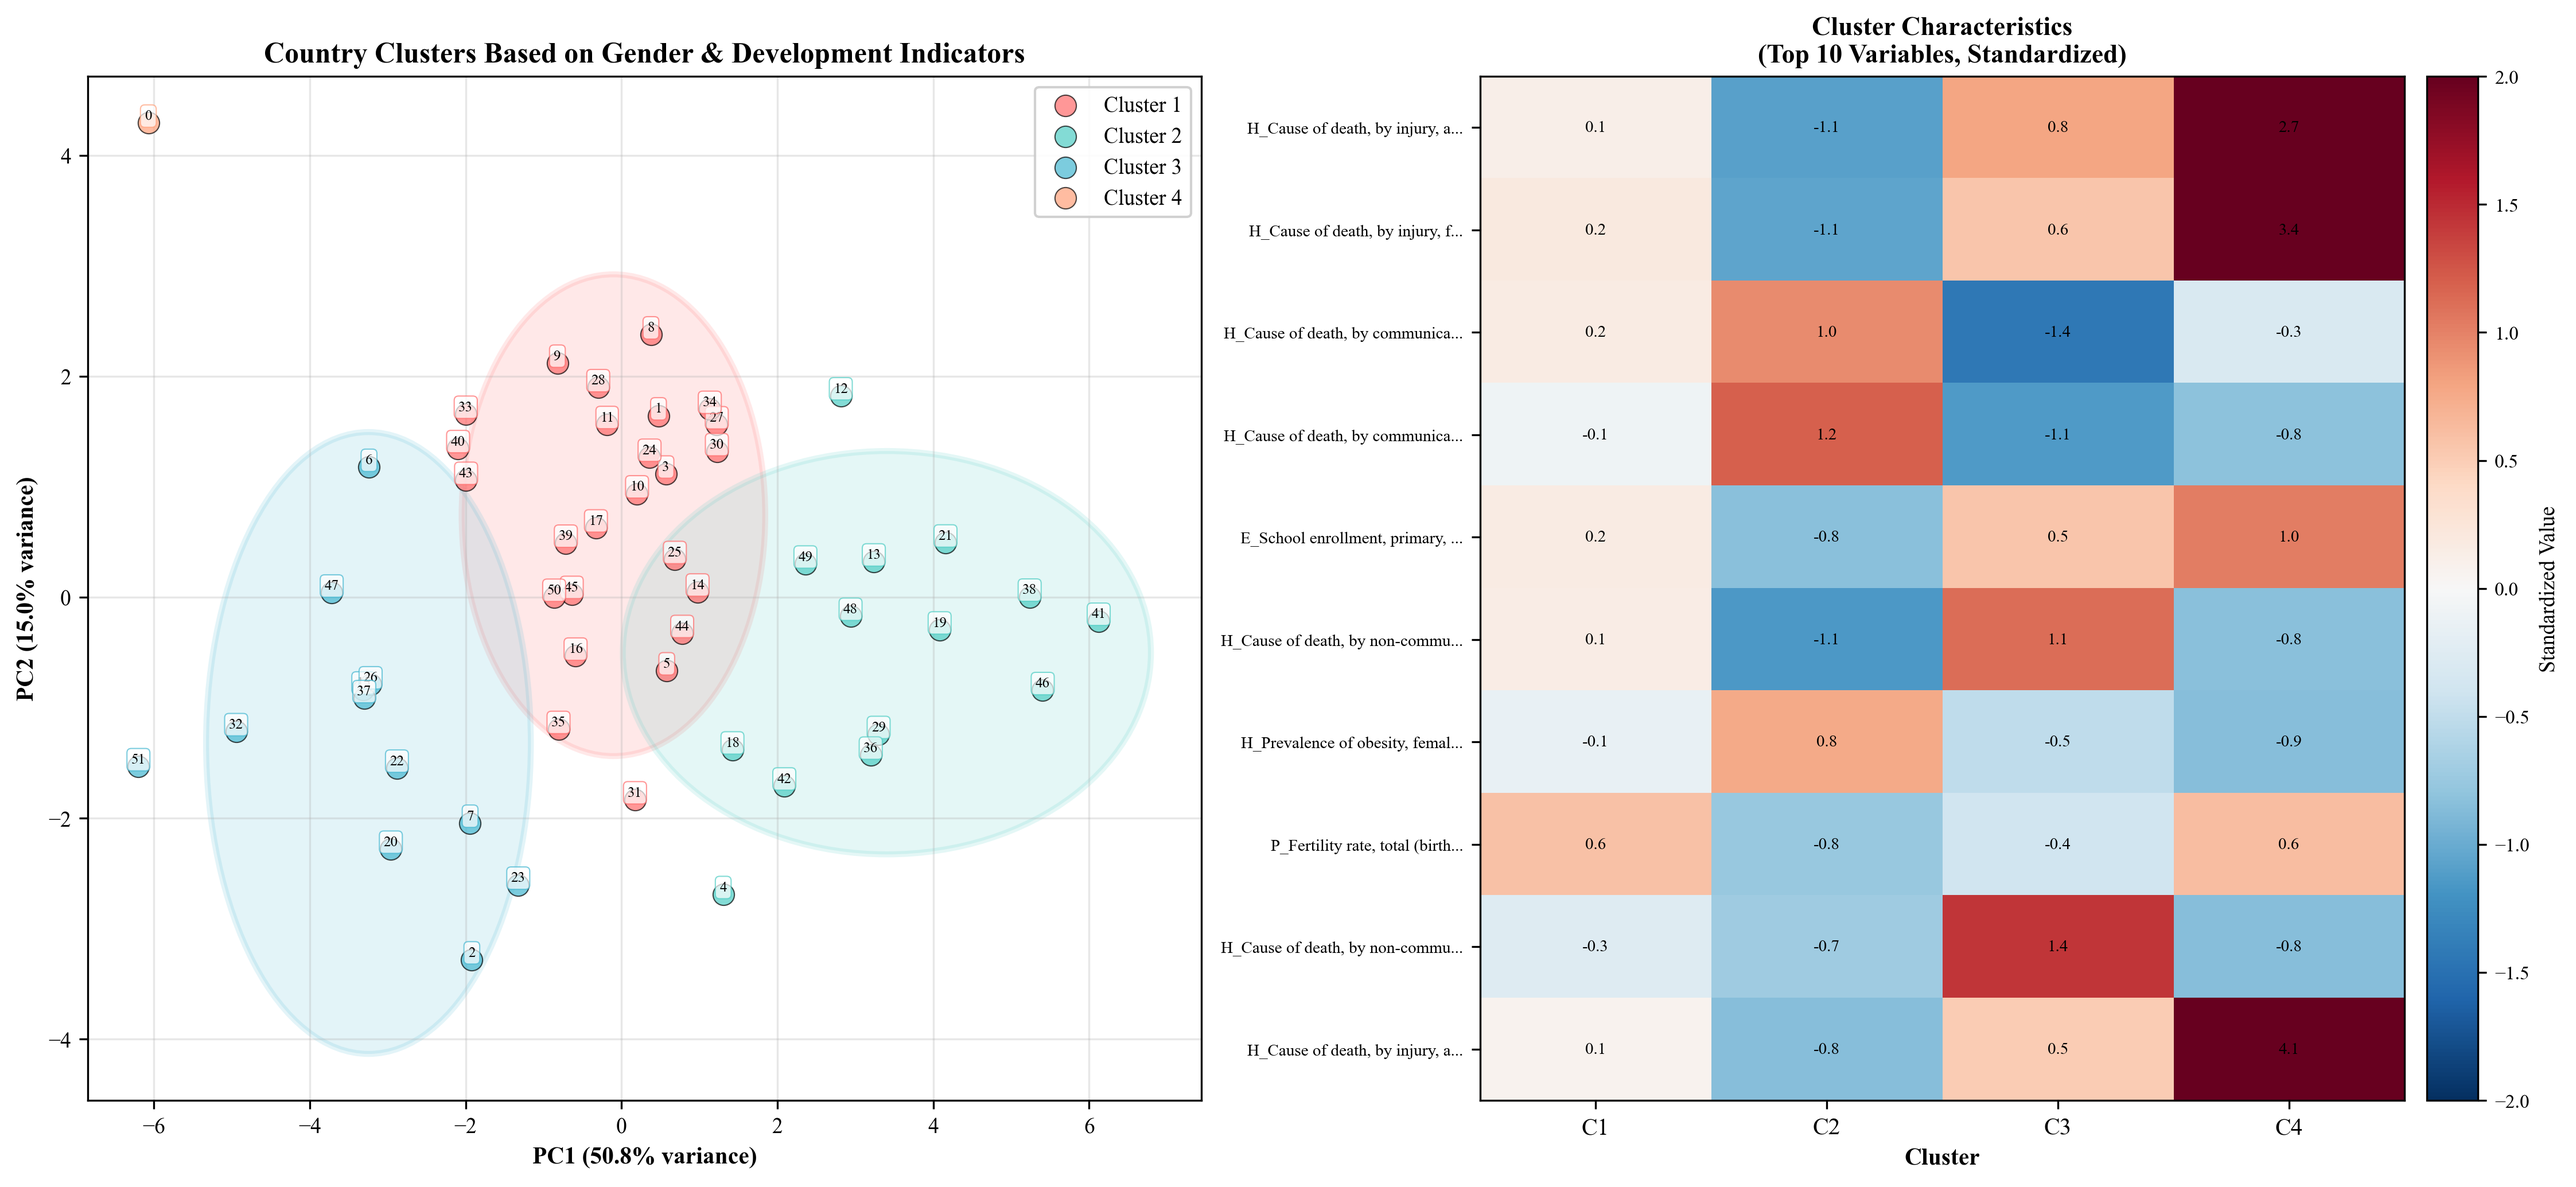
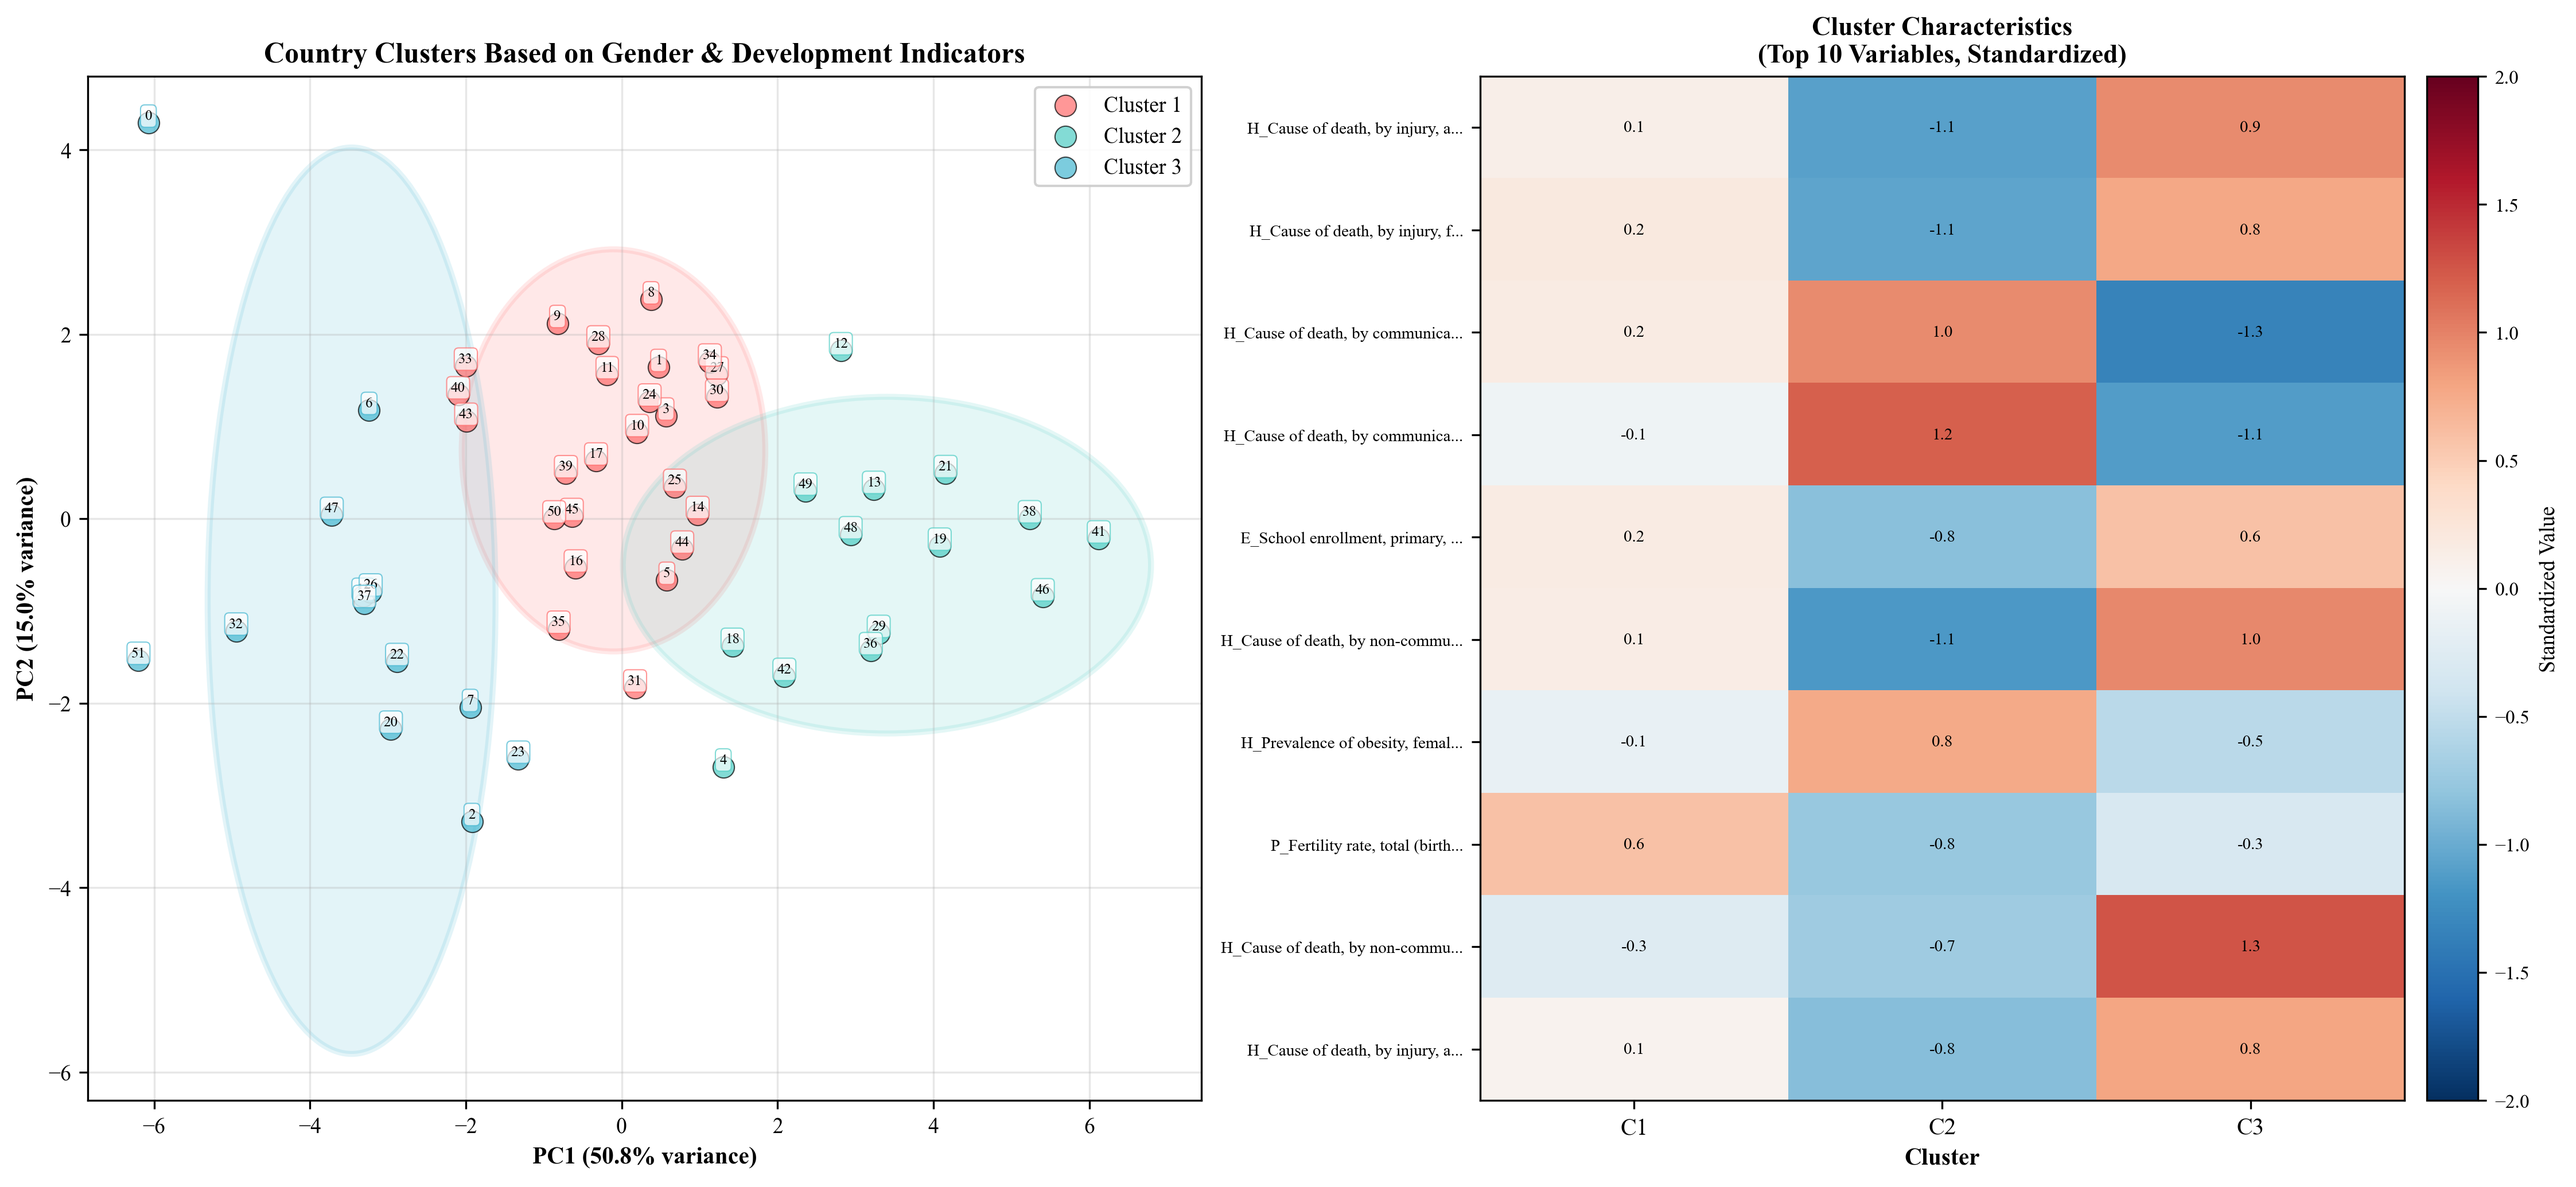
Adjust visualizations: 3 clusters and clean SHAP Y-axis
Changes Made:
✅ Reduced clusters from 4 to 3 (k=3)
✅ Removed Y-axis labels from SHAP values distribution (right panel)
✅ Regenerated all affected visualizations

Cluster Analysis:
- Now showing 3 distinct country groups
- Cluster 1: 25 countries
- Cluster 2: 14 countries
- Cluster 3: 13 countries
- More balanced distribution

SHAP Visualization:
- Left panel: Keeps variable names (importance ranking)
- Right panel: Y-axis labels removed for cleaner look
- Reduces visual clutter and duplication

This commit serves as a restore point before further changes.

🤖 Generated with [Claude Code](https://claude.com/claude-code)

diff --git a/create_improved_shap.py b/create_improved_shap.py
@@ -122,8 +122,8 @@ ax2 = plt.gca()
 ax2.set_xlabel('SHAP Value', fontsize=9, fontweight='bold')
 ax2.set_title('SHAP Values Distribution\n(Red = High, Blue = Low)',
              fontsize=10, fontweight='bold', pad=10)
-# Adjust y-tick labels
-ax2.tick_params(axis='y', labelsize=7)
+# Remove y-tick labels (keep only axis)
+ax2.set_yticklabels([])
 ax2.tick_params(axis='x', labelsize=7)
 plt.savefig('resultados/graficos_finales/shap_G_GPD_PCAP_SLOPE.png',
            dpi=300, bbox_inches='tight', facecolor='white')

diff --git a/create_cluster_analysis.py b/create_cluster_analysis.py
@@ -73,8 +73,8 @@ for k in K_range:
     inertias.append(kmeans.inertia_)
     silhouette_scores.append(silhouette_score(X_scaled, kmeans.labels_))
 
-# Choose k=4 as a reasonable balance
-optimal_k = 4
+# Choose k=3 as requested
+optimal_k = 3
 print(f"\nUsing {optimal_k} clusters")
 
 # Perform clustering
